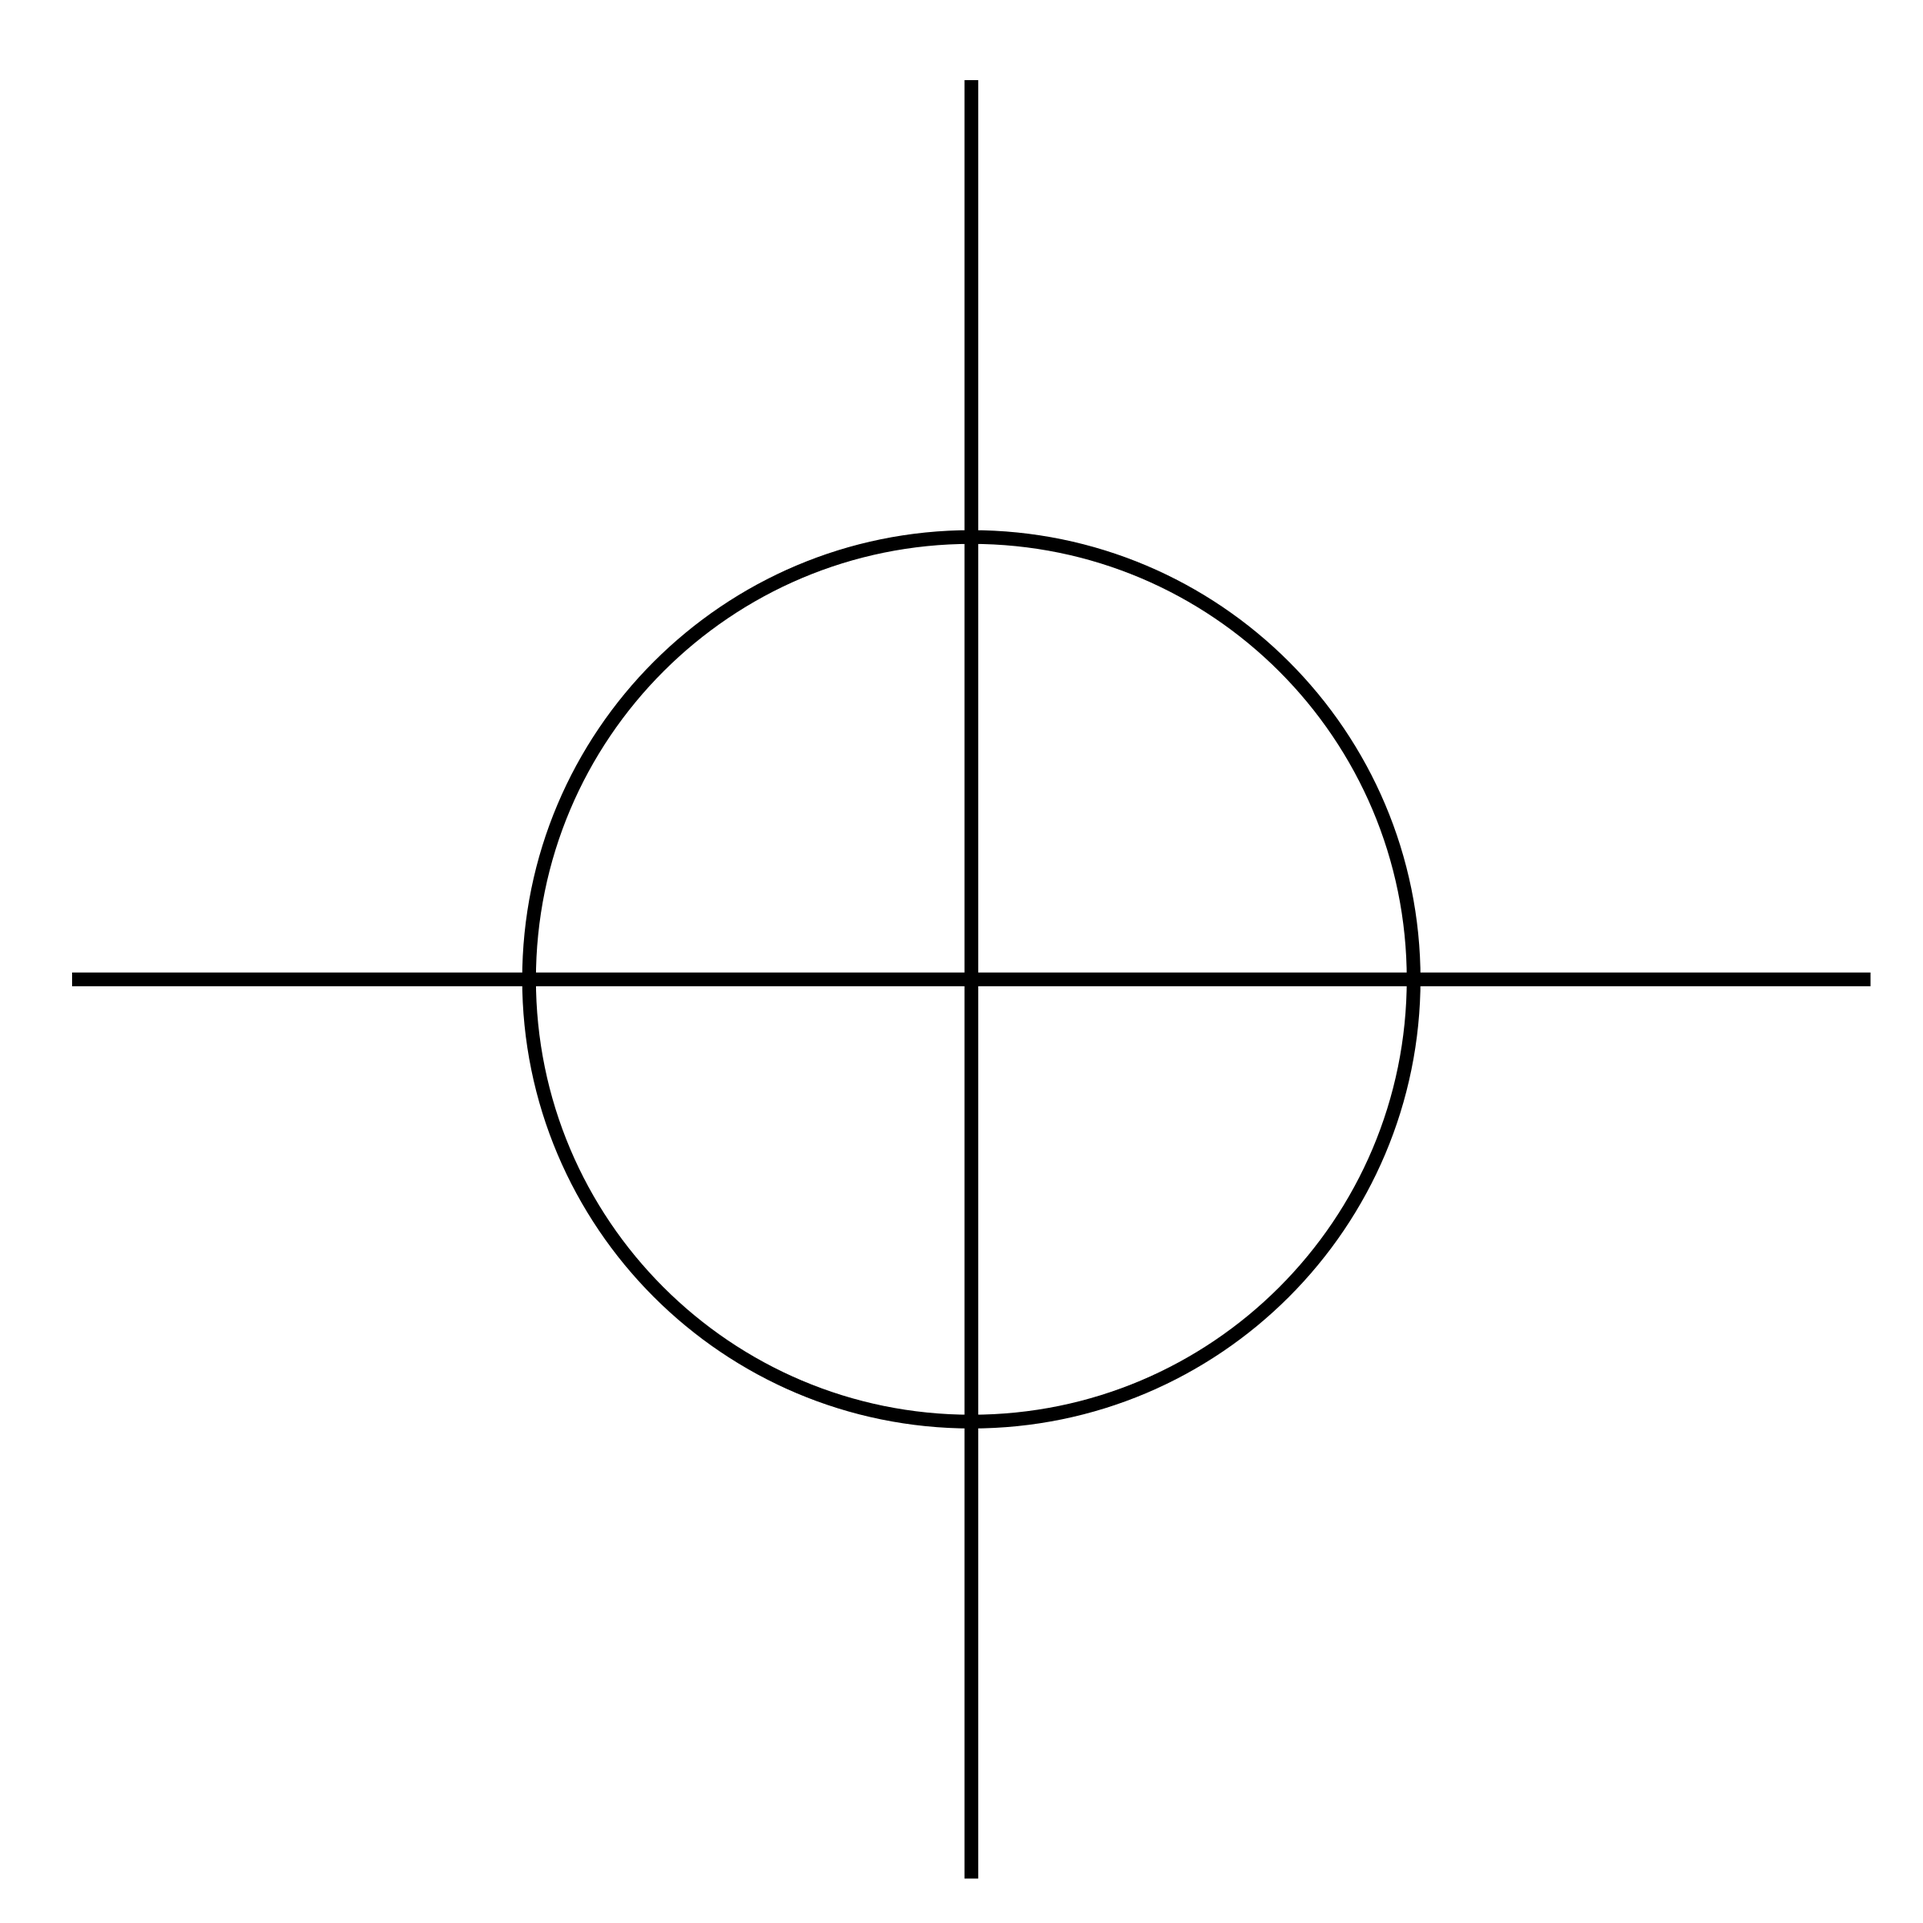
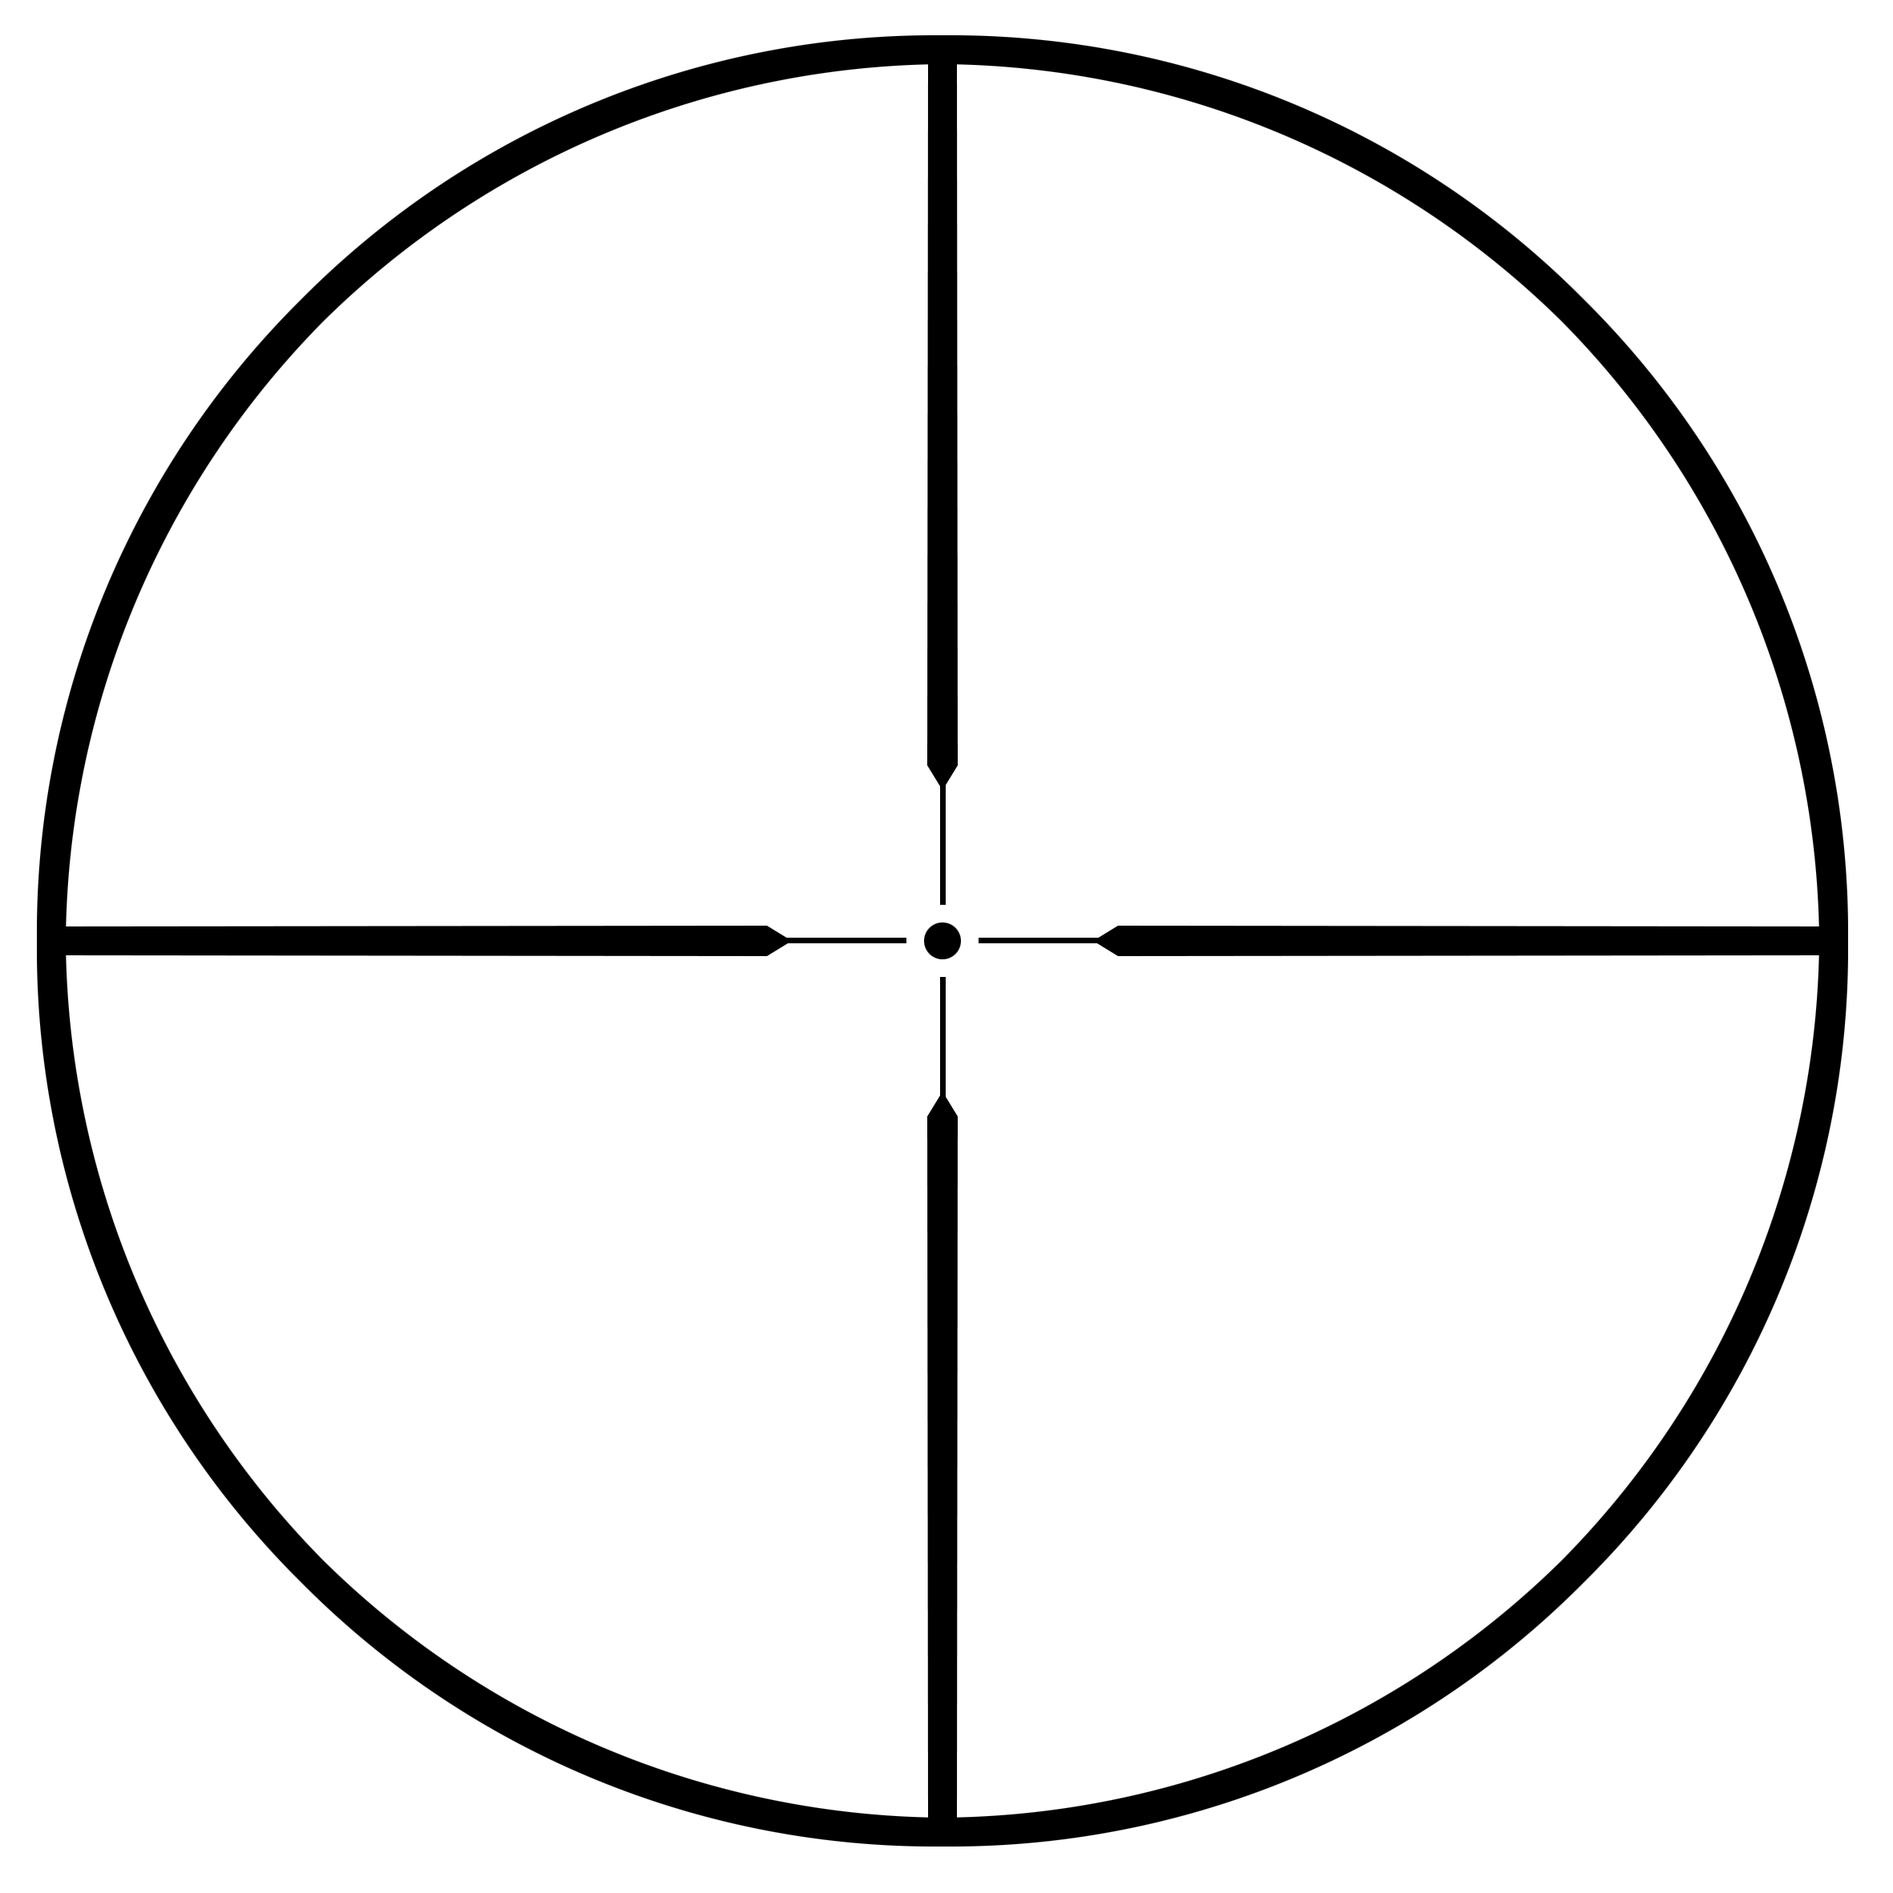
Changes

diff --git a/main.py b/main.py
@@ -25,10 +25,9 @@ window.fill((255,255,255)) # white background
 xc, yc = window.get_rect().center # window center
 target_radius = 25
 
+
 # Images 
 pygame.display.set_caption('shooting targets')
-imageTerrorist = pygame.image.load('image/terrorist.png')
-imageTerrorist = pygame.transform.scale(imageTerrorist, (2*target_radius, 2*target_radius))
 
 imageTarget = pygame.image.load('image/target.png') 
 imageTarget = pygame.transform.scale(imageTarget, (2*target_radius, 2*target_radius))
@@ -40,7 +39,7 @@ imageBgd1 = pygame.image.load('image/background1.jpg')
 imageBgd1 = pygame.transform.scale(imageBgd1, (800, 600))
 
 crossSize = 65  # int
-imageCross = pygame.image.load('image/cross2.png')
+imageCross = pygame.image.load('image/cross1.png')
 imageCross = pygame.transform.scale(imageCross, (crossSize, crossSize))
 
 factor = 0.7  # factor to scale image
@@ -62,20 +61,25 @@ imagePistolSmall = pygame.transform.scale(imagePistol, (int(factor*110), int(fac
 imagePistolRect = imagePistol.get_rect ()
 imagePistolRect.center = (xc+250, yc+30)
 
+
 # Text
 font = pygame.font.Font('freesansbold.ttf', 18) # printing text font and font size
-textHits = font.render('Hits: ', True, (0, 0, 0), (255, 255, 255)) # printing text object
+textTime = font.render('Time: ', True, (255, 0, 0)) # printing text object
+textTimeRect = textTime.get_rect()
+textTimeRect.topleft = (10, 10) 
+
+textHits = font.render('Hits: ', True, (255, 0, 0)) # printing text object
 textHitsRect = textHits.get_rect()
 textHitsRect.topleft = (10, 30)
+
+textShoot = font.render('Press \'SPACE\' to shoot', True, (0, 0, 0)) # printing text object
+textShootRect = textShoot.get_rect()
+textShootRect.center = (xc, 580)
 
 fontCurrScore = pygame.font.Font('freesansbold.ttf', 25) # printing text font and font size
 textCurrScore = font.render('SCORE:     ', True, (0, 0, 0), (255, 255, 255)) # printing text object
 textCurrScoreRect = textCurrScore.get_rect()
 textCurrScoreRect.center = (xc, 15)  
-
-textTime = font.render('Time: ', True, (0, 0, 0), (255, 255, 255)) # printing text object
-textTimeRect = textTime.get_rect()
-textTimeRect.topleft = (10, 10) 
 
 fontTitle = pygame.font.Font('freesansbold.ttf', 50) # printing text font and font size
 title = fontTitle.render('Gun simulation', True, (0, 0, 0), (255, 255, 255)) # printing text object
@@ -115,15 +119,9 @@ textRecoilRect.center = (xc, yc+200)
 textActivateGreen = fontGun.render('activate', True, (0, 255, 0), (255, 255, 255)) # printing text object
 textActivateGreenRect = textActivateGreen.get_rect()
 textActivateGreenRect.center = (xc-32, yc+200)
-textActivateRed = fontGun.render('activate', True, (255, 0, 0), (255, 255, 255)) # printing text object
-textActivateRedRect = textActivateRed.get_rect()
-textActivateRedRect.center = (xc-32, yc+200)
 textDeactivateGreen = fontGun.render('de-activate', True, (0, 255, 0), (255, 255, 255)) # printing text object
 textDeactivateGreenRect = textDeactivateGreen.get_rect()
 textDeactivateGreenRect.center = (xc+69, yc+200)
-textDeactivateRed = fontGun.render('de-activate', True, (255, 0, 0), (255, 255, 255)) # printing text object
-textDeactivateRedRect = textDeactivateRed.get_rect()
-textDeactivateRedRect.center = (xc+69, yc+200)
 
 textScore = fontTitle.render('Score', True, (0, 0, 0), (255, 255, 255)) # printing text object
 textScoreRect = textScore.get_rect()
@@ -142,9 +140,9 @@ textBPM = fontTable.render('Bullets per minute:', True, (0, 0, 0), (255, 255, 25
 textBPMRect = textBPM.get_rect()
 textBPMRect.center = (xc, yc)  
 
-textSME = fontTable.render('SME from target center:', True, (0, 0, 0), (255, 255, 255)) # printing text object
-textSMERect = textSME.get_rect()
-textSMERect.center = (xc, yc+50) 
+textMAE = fontTable.render('MAE from target center:', True, (0, 0, 0), (255, 255, 255)) # printing text object
+textMAERect = textMAE.get_rect()
+textMAERect.center = (xc, yc+50) 
 
 textRestart = fontTable.render('Press \'z\' for restart', True, (0, 0, 0), (255, 255, 255)) # printing text object
 textRestartRect = textRestart.get_rect()
@@ -153,6 +151,7 @@ textRestartRect.center = (xc, yc+150)
 textSave = fontTable.render('Press \'s\' to save score', True, (0, 0, 0), (255, 255, 255)) # printing text object
 textSaveRect = textSave.get_rect()
 textSaveRect.center = (xc, yc+200)
+
 
 window_scale = 3 # conversion from meters to pixels. Not sure if we need it
 
@@ -165,12 +164,9 @@ FPS = int(1 / dts)
 x_rand = random.randint(50, 750)
 y_rand = random.randint(50, 300)
 
-radius = 25
-count = 0
-
-
 k = 1
 b = 1
+radius = 25
 killCount = 0
 bulletCount = 0
 civilianCount = 0
@@ -273,7 +269,6 @@ while run:
                         recoil_on = 0
                     else:
                         recoil_on = 1  
-                    
                 if event.key == ord('s'): # select sniper
                     setTimer = 1
                     gun = "sniper"
@@ -308,20 +303,19 @@ while run:
         window.blit(textRecoil, textRecoilRect)
         if recoil_on == 1:  #recoil is activated
             window.blit(textActivateGreen, textActivateGreenRect)
-            #window.blit(textDeactivateRed, textDeactivateRedRect)
         else:  #recoil is de-activated
-            #window.blit(textActivateRed, textActivateRedRect)
             window.blit(textDeactivateGreen, textDeactivateGreenRect)
         
         # plot images
         window.blit(imageSniper, imageSniperRect)
         window.blit(imageRifle, imageRifleRect)
         window.blit(imagePistol, imagePistolRect)
-        #window.blit(image, (xc-25, yc-150))
+        
         pygame.display.flip() # update display
     '''*********** !STARTSCREEN ***********'''    
     
-    if run == False:
+    # quit loop if window has been closed
+    if run == False:  
         break
     
     '''ACQUIRING THE POSITION FROM THE HAPLY IF CONNECTED, FROM THE MOUSE OTHERWISE'''
@@ -381,8 +375,7 @@ while run:
                 
                 if not hit_smth:
                     score -= 20
-
-                    
+           
     # start timer
     if setTimer == 1:
         timerStart = time.perf_counter()
@@ -452,7 +445,6 @@ while run:
         imageGunRect.topright = (795, 5)
         weapon_n = 0
     
-    
     # real-time plotting
     window.fill((255,255,255)) # clear window
     window.blit(imageBgd1, (0, 0))
@@ -469,12 +461,11 @@ while run:
     textCurrScore = fontCurrScore.render('Score: '+ str(score), True, (255, 0, 0))
     window.blit(textCurrScore, textCurrScoreRect)
     
+    window.blit(textShoot, textShootRect)
+    
     # plot target
-    #pygame.draw.circle(window, (0, 255, 0), (x_rand, y_rand), radius)
     target_pos=[]
     for target in target_list:
-        #pygame.draw.circle(window, (0, 255, 0), np.round(target.pos), radius)
-        #target.update_pos()
         x_pos = int(target.pos[0])
         y_pos = int(target.pos[1])
         if 800-x_pos<1+target_radius  or x_pos<1+target_radius:
@@ -487,8 +478,6 @@ while run:
 
     civilian_pos=[]
     for civilian in civilian_list:
-        #pygame.draw.circle(window, (0, 255, 0), np.round(target.pos), radius)
-        #target.update_pos()
         x_pos = int(civilian.pos[0])
         y_pos = int(civilian.pos[1])
         if 800 - x_pos < 1 + target_radius or x_pos < 1 + target_radius:
@@ -498,13 +487,9 @@ while run:
         civilian.update_pos()
         civilian_pos.append(civilian.pos)
         window.blit(imageCivilian, (x_pos - target_radius, y_pos - target_radius))
-        
-    pygame.draw.circle(window, (0, 255, 0), (xh[0], xh[1]), 5) # draw a green point for aiming
-    
-    
-    
+          
     window.blit(imageCross, (xh[0]-crossSize/2, xh[1]-crossSize/2))
-    pygame.draw.circle(window, (0, 255, 0), (xh[0], xh[1]), 3) # draw a green point for aiming
+    pygame.draw.circle(window, (0, 255, 0), (xh[0], xh[1]), 5) # draw a green point for aiming
     window.blit(imageGun, imageGunRect)
     pygame.display.flip() # update display
     
@@ -523,29 +508,19 @@ while run:
     x_hm, y_hm, z_hm_civilians = create_civilians(window_dimension, civilian_array)
     z_hm = z_hm_targets + z_hm_civilians
     
-    # Plot the 3D graph 
-    #fig3d = plt.figure()
-    #ax3d = fig3d.gca(projection='3d')
-    #ax3d.plot_surface(x_hm, y_hm, z_hm, cmap='viridis', linewidth=0)
-    #plt.show()
-    
     gradient = np.array(np.gradient(z_hm))
     if weapon_n != 0:
         f_height_map = gradient[:, int(xh[0]/5), int(xh[1]/5)] * 1.1 * 1e4 * 13**(weapon_n - 1)
     else:
         f_height_map = np.zeros(2)
-    
     #print(f_height_map)
     
     fe = f_viscosity + (f_recoil * recoil_on) + f_gravity + f_perturbance + f_height_map
     #print("f_perturbance:", f_perturbance)
     
-
-    
-    
     xh_old = xh # Update xh_old to compute the velocity
     
-     ######### Send forces to the device #########
+    ######### Send forces to the device #########
     if port:
         fe[1] = -fe[1]  ##Flips the force on the Y=axis 
         
@@ -554,28 +529,20 @@ while run:
         device.device_write_torques()
         #pause for 1 millisecond
         time.sleep(0.001)
-        
-    # else:
-    #     ######### Update the positions according to the forces ########
-    #     ##Compute simulation (here there is no inertia)
-    #     ##If the haply is connected xm=xh and dxh = 0
-    #     dxh = (k/b*(xm-xh)/window_scale - fe/b)    ####replace with the valid expression that takes all the forces into account
-    #     dxh = dxh*window_scale
-    #     xh = np.round(xh+dxh)             ##update new position of the end effector
-    
-    
     '''************* !TASK *************'''
-    if endscreen:
+    
+    if endscreen:  # calculate metrics
         score_saved = False
         kills_per_minute = killCount*(60/timeCountdown)
         bullets_per_minute = bulletCount*(60/timeCountdown)
         civilians_per_minute = civilianCount*(60/timeCountdown)
         if bulletCount == 0: # to avoid errors due to the division by zero
-            ResultSME = 100000000
+            ResultMAE = 100000000
         else:
-            ResultSME =  round(sum(minDistanceList)/bulletCount, 2)
+            ResultMAE =  round(sum(minDistanceList)/bulletCount, 2)
             
-        score = score + int(3*1e4/ResultSME)
+        score = score + int(3*1e4/ResultMAE)
+        
     '''*********** ENDSCRREEN ***********'''
     while endscreen:  
         for event in pygame.event.get(): # interrupt function
@@ -599,7 +566,7 @@ while run:
                         civilian_list.append(civilian)
                         
                 if event.key == ord('s') and score_saved==False:
-                    save_score(gun,kills_per_minute,bullets_per_minute,ResultSME,score)
+                    save_score(gun,kills_per_minute,bullets_per_minute,ResultMAE,score)
                     score_saved = True
         
         # real-time plotting
@@ -626,20 +593,16 @@ while run:
         textBPMRect.center = (xc, yc)  
         window.blit(textBPM, textBPMRect)
         
-        
-        textSME = fontTable.render('SME from target center: ' + str(ResultSME) + ' [in pixel]', True, (0, 0, 0), (255, 255, 255)) # printing text object
-        textSMERect = textSME.get_rect()
-        textSMERect.center = (xc, yc+50)
-        window.blit(textSME, textSMERect)
+        textMAE = fontTable.render('MAE from target center: ' + str(ResultMAE) + ' [in pixel]', True, (0, 0, 0), (255, 255, 255)) # printing text object
+        textMAERect = textMAE.get_rect()
+        textMAERect.center = (xc, yc+50)
+        window.blit(textMAE, textMAERect)
         
         window.blit(textRestart, textRestartRect)
         window.blit(textSave, textSaveRect)
         
-        # plot images
-        
         pygame.display.flip() # update display
     '''*********** !ENDSCREEN ***********'''
-    
     
     # try to keep it real time with the desired step time
     clock.tick(FPS)
